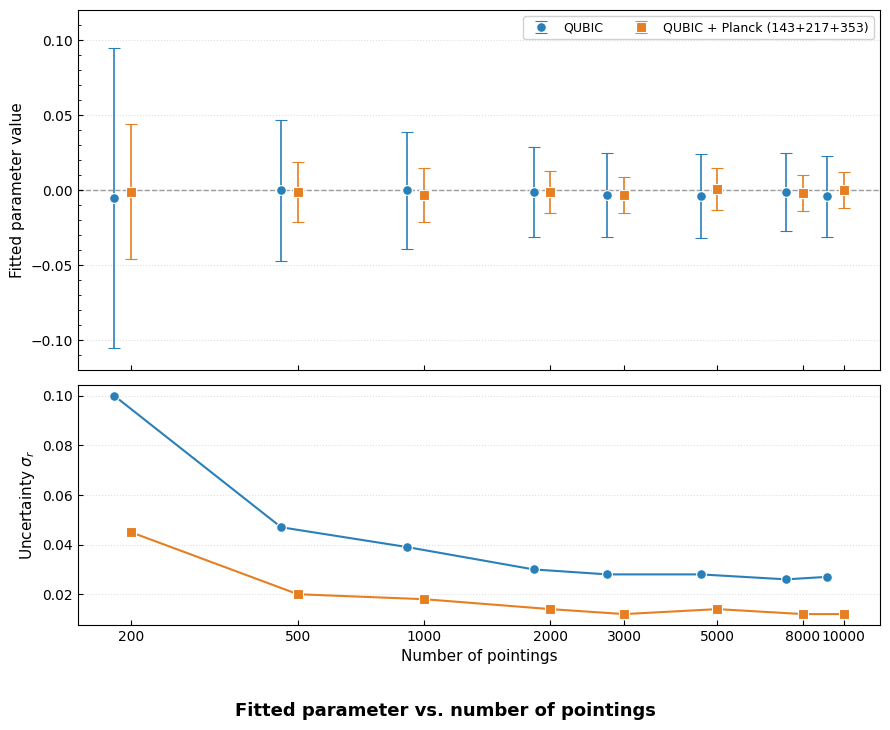
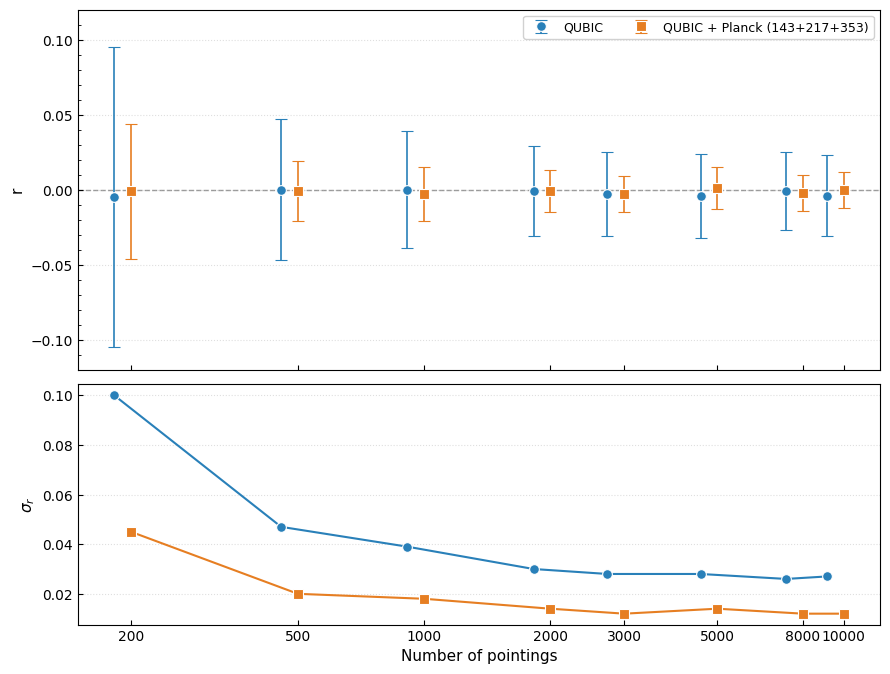
Finish draft for TOD realism chapter

diff --git a/thesis/chapters/9_tod/9_tod.tex b/thesis/chapters/9_tod/9_tod.tex
@@ -59,6 +59,50 @@ For a more accurate characterisation, we consider a set of $N_{\text{sub}}$ valu
 \end{equation}
 which quantifies the relative difference between the TOD obtained with a given $N_{\text{sub},i}$ and the TOD computed with the largest value $N_{\text{sub}}^{\mathrm{max}}$. The normalisation by the norm of $H(\mathrm{map})^{\mathrm{max}}$ provides a dimensionless estimate of the fractional deviation.
 
+Instead of relying on \emph{qubicsoft}, we developed a simplified acquisition model. For each sub-band, a sky map is convolved with the FWHM of the synthesized beam peaks. We then compute the pointing direction of each synthesized beam peak for every detector. By summing the contributions from all sub-bands, we obtain a simplified TOD that retains the essential features required to study its convergence with respect to the number of sub-bands. This test was also performed using the full acquisition model implemented in \emph{qubicsoft} to validate the simplified toy model. The results presented below are mainly obtained with the toy model, as it allows the exploration of more complex configurations with a much lower computational cost.
+
+Unfortunately, the TOD does not appear to converge, regardless of the number of integrated sub-bands. The results, shown in Figure~\ref{fig:tod_conv_qubicsoft}, indicate a relative difference of approximately $5 \times 10^{-3}$ between two TODs computed using 194 and 204 sub-bands. This difference, as well as the others shown in the figure, is significantly larger than expected, and no clear convergence can be observed.
+
+\begin{figure}[!htbp]
+    \centering
+    \includegraphics[width=1\linewidth]{convergence_tod_qubicsoft_200.png}
+    \caption{TOD convergence with the number of subbands $N_\text{sub}$, using \emph{qubicsoft}.}
+    \label{fig:tod_conv_qubicsoft}
+\end{figure}
+
+After initially suspecting a bug in the code, which led to several months of testing and verification of each operator composing $H$, we eventually identified a plausible explanation. Since the sky is represented as a pixelised map, the simulated TOD is affected by pixelisation. Depending on the frequency of the considered sub-band, the synthesized beam peaks do not point to exactly the same positions on the sky. As a result, the sampled pixel value can \enquote{jump} whenever a peak crosses the boundary between two neighbouring pixels, even for a very small change in frequency. This effect prevents the TOD from converging completely.
+This behaviour is illustrated in Figure~\ref{fig:tod_conv_pixel_effect}, which shows the output of the simplified toy model. For a single time sample, the figure displays the sum of the pixel values sampled by all the synthesized beam peaks as a function of the sub-bands' frequency. A deliberately coarse map resolution is used to emphasise the effect, which appears as the numerous plateaus visible throughout the figure.
+
+\begin{figure}[!htbp]
+    \centering
+    \includegraphics[width=1\linewidth]{convergence_tod_pixellisation_effect.png}
+    \caption{Crosses represent the sum of the pixel values sampled by all the synthesized beam peaks for each sub-band, shown for different values of $N_{\text{sub}}$. The dashed lines correspond to the average contribution over all sub-bands.}
+    \label{fig:tod_conv_pixel_effect}
+\end{figure}
+
+To confirm that pixelisation is indeed responsible for the lack of convergence, we implemented a pixel interpolation scheme in the toy model to smooth the sky map. Repeating the same analysis with this interpolation yields to the results shown in Figure~\ref{fig:tod_conv_pixel_effect_interp}. In contrast to Figure~\ref{fig:tod_conv_pixel_effect}, the plateaus disappear and are replaced by a smooth evolution with sub-band frequency. More importantly, the sampled values become essentially independent of the number of sub-bands, providing strong evidence that the observed lack of convergence is primarily caused by pixelisation. Same by looking at the dash lines, representing the average of the contributions from all subbands for a given $N_\text{sub}$ value, which spreads less than in the figure without interpolation.
+
+\begin{figure}[!htbp]
+    \centering
+    \includegraphics[width=1\linewidth]{convergence_tod_pixel_effect_interp.png}
+    \caption{Crosses correspond to the sum of pixels' value seen by all the peaks corresponding to a given subband, for various $N_\text{sub}$ numbers, including an interpolated sky. The dash lines are the average for the contributions from all subbands.}
+    \label{fig:tod_conv_pixel_effect_interp}
+\end{figure}
+
+The resulting convergence, with and without interpolation, for a map with resolution $N_\text{side}=256$ and numerous sub-bands, is shown in Figure~\ref{fig:tod_conv}. The convergence obtained with interpolation is improved by approximately three orders of magnitude.
+We initially expected this level of convergence to be achieved without introducing an explicit interpolation, assuming that the beam convolution would already smooth out the map. However, we found that the synthesized beam peaks have a size comparable to that of the HEALPix pixels for $N_\text{side}=256$. As a result, the convolution only partially mitigates the pixelisation effects and has a limited impact on TOD convergence. Moreover, because the synthesized beam FWHM varies with frequency, the convolution itself introduces an additional source of variation between sub-bands, which also affects the convergence of the TOD.\footnote{For completeness, we compared the TOD convergence with and without beam convolution. Somewhat counter-intuitively, the convergence is slightly better without convolution. However, this effect is much smaller than the pixelisation effect and is not investigated further, since omitting the convolution would not correspond to a realistic instrument model.}
+
+After validating this explanation with the toy model, we implemented an optional interpolation operator in the acquisition operator $H$.
+
+\begin{figure}[!htbp]
+    \centering
+    \includegraphics[width=1\linewidth]{convergence_tod.png}
+    \caption{Convergence of TOD with the number of subbands, without and without interpolation.}
+    \label{fig:tod_conv}
+\end{figure}
+
+Although these results are satisfying, applying interpolation in the production simulations is not a realistic solution because of its significant computational cost. We therefore investigated an alternative approach to determine a suitable value of $N_\text{sub}$ for our end-to-end simulations.
+
 \subsubsection{Optimal sub-bands number for simulation and reconstruction}
 
 Following the results obtained on the influence of $N_{\text{sub}}$ on the TOD, we consider an alternative test based on the effect of $N_{\text{sub}}$ on $\sigma_r$, the uncertainty on the tensor-to-scalar ratio $r$.
@@ -158,7 +202,14 @@ To improve the signal-to-noise ratio, the outer pixels of the QUBIC sky patch, w
 
 Applying a coverage cut generally improves the signal-to-noise ratio by discarding poorly observed regions. However, the value should remain as small as possible in order to preserve the largest possible sky area and therefore the available statistical information. To determine an appropriate value, we follow the same procedure as in the previous section: we perform simulations for some coverage cut values and study the resulting behaviour of $\sigma_r$.
 
-\rmk{Still miss some values for the plot.}
+The result on the effect of the coverage cut value are presented in Figure~\ref{fig:cov_cut_sigma_r}. A sweet spot is visible for coverage cut equal to $0.2$, meaning that the pixels where the coverage is below $20\%$ of the max are discarded. Below this value, $\sigma_r$ is higher because we are adding pixels with not enough information, leading to a degradation of the signal-to-noise ratio. Above $0.2$, $\sigma_r$ value is raising, which means that we are discarding too much information, and by extension, loosing information inside the patch. We are using this value for the end-to-end simulations.
+
+\begin{figure}[!htbp]
+    \centering
+    \includegraphics[width=1\linewidth]{sigma_r_cov_cut.png}
+    \caption{Top: fitted value of the tensor-to-scalar ratio $r$ as a function of the coverage cut. Error bars correspond to the MCMC uncertainty $\sigma_r$. Bottom: evolution of $\sigma_r$ as a function of coverage cut.}
+    \label{fig:cov_cut_sigma_r}
+\end{figure}
 
 \subsection{Spectrum parameter : $\Delta_\ell$}
 
@@ -188,8 +239,52 @@ This algorithm is governed by two parameters: the number of PCG iterations $N_{\
 
 The key parameter is $N_{\mathrm{iter}}$, which largely determines the convergence rate. Indeed, it controls the reconstruction accuracy of the component maps at each iteration of the outer loop. If it is too small, the maps are poorly reconstructed, and the estimation of the mixing matrix becomes biased. If it is too large, the computational cost becomes inefficient. Moreover, in the most critical case, when the mixing matrix is itself incorrectly estimated (at the beginning of the reconstruction), a large value of $N_{\mathrm{iter}}$ can lead the maps to converge towards an incorrect solution, which in turn biases the subsequent estimation of the mixing matrix. Finding the appropriate trade-off is therefore delicate and may depend on the assumed physical model of the sky.
 
-To estimate the proper couple for these parameters, we are looking at two elements : the convergence of the spectral index, which determine the reconstruction of the mixing matrix, and the noise profile in residual component maps. 
+To determine the optimal combination of these parameters, we are considering the convergence of the spectral index, which characterises the reconstruction of the mixing matrix. The analysis is performed by fixing the number of loops to $100$ and running the reconstruction for different numbers of PCG iterations per loop\footnote{Initially, we fixed the total number of PCG iterations and adjusted the number of loops and the number of iterations per loop accordingly. However, since $N_{\text{iter}}$ primarily controls the reconstruction of the component maps, whereas $N_{\text{loop}}$ governs the convergence of the mixing matrix, we found it more informative to keep one parameter fixed. Moreover, the total number of iterations is not, by itself, a meaningful criterion for assessing convergence.}. The starting point is choosen randomly at $2\sigma$ from the real value, but is kept the same for all tests. After the loop, a PCG with $150$ iterations is run to properly reconstruct the maps, which is not possible with the low $N_\text{iter}$ values used inside the loop. The number will be increased for the end-to-end simulations. 
+The results are shown in Figure~\ref{fig:beta_convergence} summerised in the Table~\ref{table:niter_convergence}. In this table, the first column $N_\text{iter}$ is the number of PCG iteration per loop, the second column is the loop number where the fit of the spectral index converged, and the third one is the residual value for the spectral index (the difference between the true value and the fitted one).
 
-\rmk{Still ongoing, I am doing empirical tests to understand what is the best combinaison between $N_\text{iter}$ \& $N_\text{loop}$. I made a mistake, so I have to redo simulation, but only one per case instead of 300...}
+\begin{figure}[!htbp]
+    \begin{minipage}{0.5\linewidth}
+        \centering
+        \includegraphics[width=\linewidth]{convergence_beta.png}
+    \end{minipage}
+    \hfill
+    \begin{minipage}{0.5\linewidth}
+        \centering
+        \includegraphics[width=\linewidth]{convergence_beta_residual.png}
+    \end{minipage}
+    \caption{Convergence of spectal index $\beta$ value (left) and residual (right) with the number of loop iterations.}
+    \label{fig:beta_convergence}
+\end{figure}
+
+\begin{table}[!htbp]
+    \centering
+    \begin{tabular}{ccc}
+        \hline
+        $N_{\text{iter}}$ & Convergence iteration & $\beta$ residual \\
+        \hline
+        5 & 52 & $7.46 \times 10^{-3}$ \\
+        10 & $\varnothing$ & $\varnothing$ \\
+        12 & $> 100$ & $\varnothing$ \\
+        15 & 68 & $1.35\times 10^{-3}$ \\
+        17 & 90 & $8.86\times 10^{-4}$ \\
+        20 & $> 100$ & $\varnothing$ \\
+        25 & $> 100$ & $\varnothing$ \\
+        30 & $> 100$ & $\varnothing$ \\
+        \hline
+    \end{tabular}
+    \caption{TODO: caption.}
+    \label{table:niter_convergence}
+\end{table}
+
+The symbol $\varnothing$ in the $\beta$ residual column means that the fit of the spectral index did not converge, and in the convergence iteration column means that the fit diverge. The tests show that the best value is around $N_\text{iter} = 15$, which is the value we will use for the end-to-end simulations as it corresponds to the best tradeoff between accuracy and number of loop iterations needed for convergence. The Figure~\ref{fig:beta_convergence_n_iter_15} shows the convergence of the spectral index for the case $N_\text{iter} = 15$.
+
+\begin{figure}[!htbp]
+    \centering
+    \includegraphics[width=1\linewidth]{convergence_beta_n_iter_15.png}
+    \caption{Convergence of the spectal index $\beta$. The x-axis represents the loop iteration number. (top) Convergence of the $\beta$ value. (bottom) Convergence of the residual value, the difference between the true parameter and the fitted one.}
+    \label{fig:beta_convergence_n_iter_15}
+\end{figure}
+
+One would need to be careful with these values, as they do not represent an absolute rule for CMM. Indeed, they are not performed on a large statistical sample but only on one specific case. Furthermore, we can't find explanation for diverging convergence for some $N_\text{iter}$ values and not for others. An extension of this analysis may be needed in the future, or developing a non-linear solver to remove the need for the alternate convergence.
 
 \end{document}
